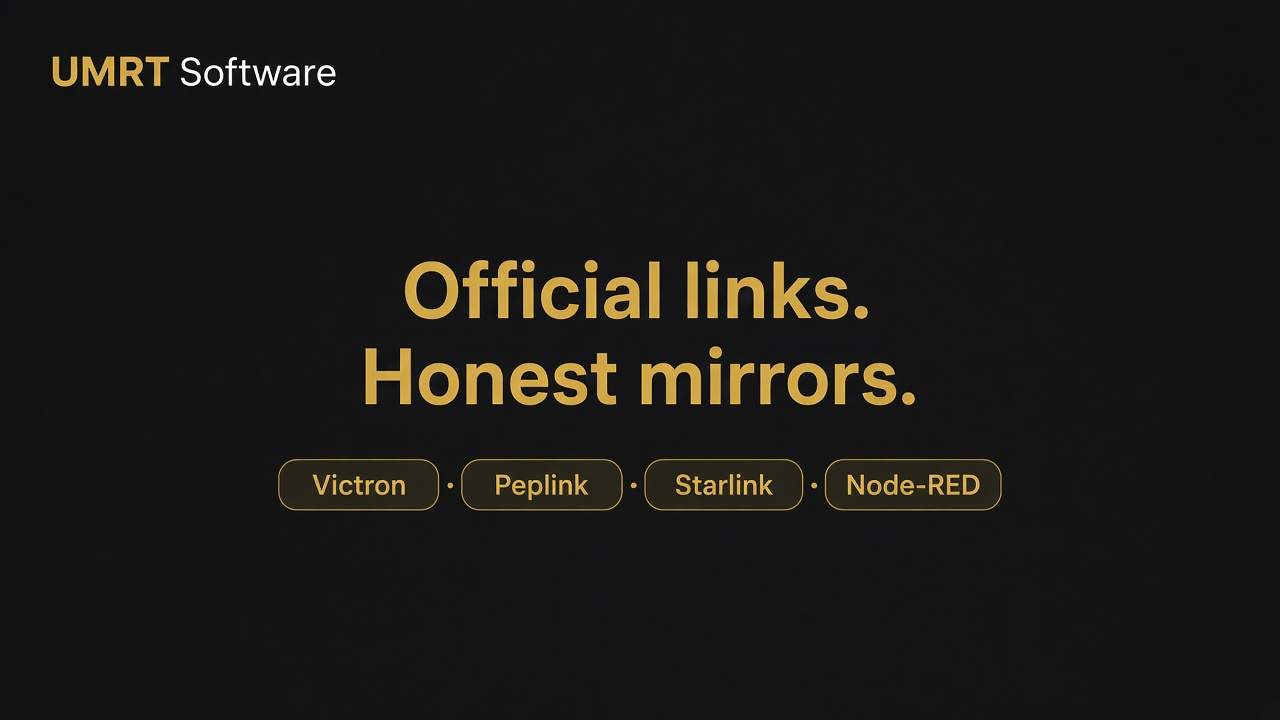
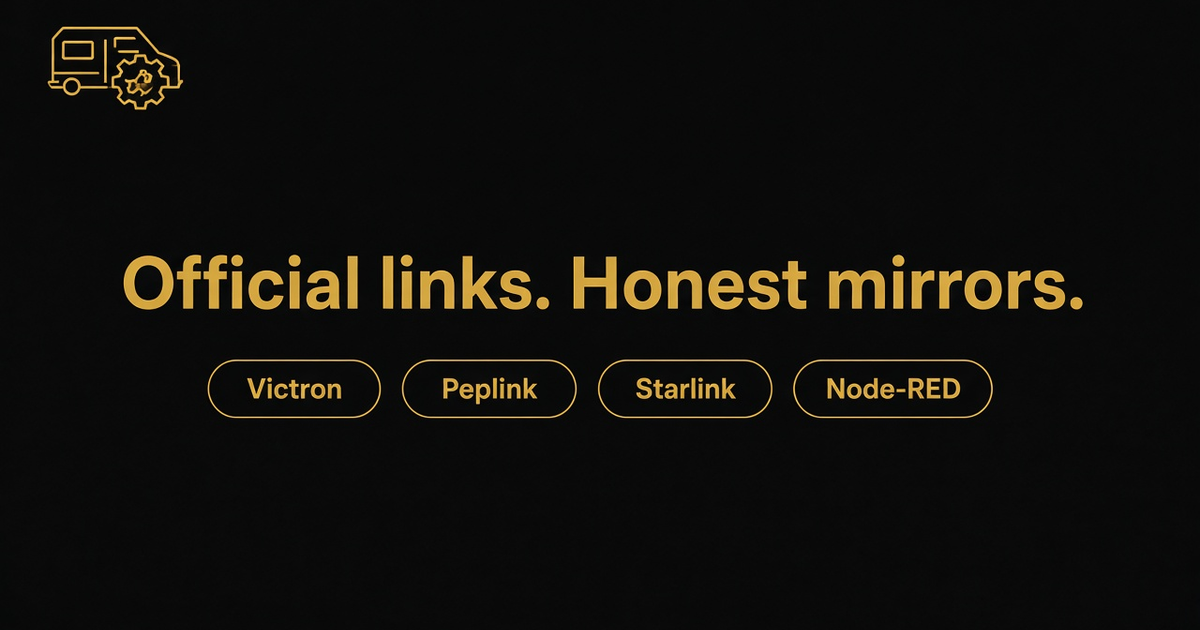
Visual: Brand OG real PNG + share chrome (viral empty-image fix)

Changed region(s): [[0.0925, 0.3619, 0.8942, 0.7238], [0.0308, 0.0302, 0.2775, 0.181]]

diff --git a/node-red/index.html b/node-red/index.html
@@ -9,11 +9,11 @@
   <meta property="og:description" content="Official Node-RED + Signal K links for RV/light-marine dashboards. Integrate/install only — no community-flow productization. Mirror-candidate after pin+SHA256. Victron Professional Certified Installer field shop." />
   <meta property="og:type" content="website" />
   <meta property="og:url" content="https://umrt-software.pages.dev/node-red/" />
-  <meta property="og:image" content="https://umrt-software.pages.dev/shared/img/og-default.png" />
+  <meta property="og:image" content="https://umrt-software.pages.dev/assets/og/umrt-software-og-card.png" />
   <meta property="og:image:width" content="1200" />
   <meta property="og:image:height" content="630" />
   <meta name="twitter:card" content="summary_large_image" />
-  <meta name="twitter:image" content="https://umrt-software.pages.dev/shared/img/og-default.png" />
+  <meta name="twitter:image" content="https://umrt-software.pages.dev/assets/og/umrt-software-og-card.png" />
   <meta name="twitter:title" content="Node-RED — Official FOSS links | UMRT Software" />
   <meta name="twitter:description" content="Official nodered.org / Signal K links. Integrate/install only; mirror-candidate after pin+SHA256." />
   <link rel="canonical" href="https://umrt-software.pages.dev/nodered/" />

diff --git a/nodered/index.html b/nodered/index.html
@@ -9,11 +9,11 @@
   <meta property="og:description" content="Official Node-RED + Signal K links for RV/light-marine dashboards. Integrate/install only — no community-flow productization. Mirror-candidate after pin+SHA256. Victron Professional Certified Installer field shop." />
   <meta property="og:type" content="website" />
   <meta property="og:url" content="https://umrt-software.pages.dev/nodered/" />
-  <meta property="og:image" content="https://umrt-software.pages.dev/shared/img/og-default.png" />
+  <meta property="og:image" content="https://umrt-software.pages.dev/assets/og/umrt-software-og-card.png" />
   <meta property="og:image:width" content="1200" />
   <meta property="og:image:height" content="630" />
   <meta name="twitter:card" content="summary_large_image" />
-  <meta name="twitter:image" content="https://umrt-software.pages.dev/shared/img/og-default.png" />
+  <meta name="twitter:image" content="https://umrt-software.pages.dev/assets/og/umrt-software-og-card.png" />
   <meta name="twitter:title" content="Node-RED — Official FOSS links | UMRT Software" />
   <meta name="twitter:description" content="Official nodered.org / Signal K links. Integrate/install only; mirror-candidate after pin+SHA256." />
   <link rel="canonical" href="https://umrt-software.pages.dev/nodered/" />

diff --git a/index.html b/index.html
@@ -11,11 +11,11 @@
   <meta property="og:description" content="Victron, Peplink, Starlink, weBoost + Node-RED — manufacturer links only. No cracked bins. Built by a Victron Professional Certified Installer who works on coaches." />
   <meta property="og:type" content="website" />
   <meta property="og:url" content="https://umrt-software.pages.dev/" />
-  <meta property="og:image" content="https://raw.githubusercontent.com/crashdummy88/umrt-software/main/og.png" />
+  <meta property="og:image" content="https://umrt-software.pages.dev/assets/og/umrt-software-og-card.png" />
   <meta property="og:image:width" content="1200" />
   <meta property="og:image:height" content="630" />
   <meta name="twitter:card" content="summary_large_image" />
-  <meta name="twitter:image" content="https://raw.githubusercontent.com/crashdummy88/umrt-software/main/og.png" />
+  <meta name="twitter:image" content="https://umrt-software.pages.dev/assets/og/umrt-software-og-card.png" />
   <meta name="twitter:title" content="UMRT Software — Official firmware &amp; FOSS links" />
   <link rel="stylesheet" href="/shared/css/umrt.css" />
 </head>

diff --git a/peplink/index.html b/peplink/index.html
@@ -9,11 +9,11 @@
   <meta property="og:description" content="Official Peplink links. Name the SpeedFusion mode. Manufacturer / store only — no proprietary binary redistribution." />
   <meta property="og:type" content="website" />
   <meta property="og:url" content="https://umrt-software.pages.dev/peplink/" />
-  <meta property="og:image" content="https://umrt-software.pages.dev/shared/og/og-default.png" />
+  <meta property="og:image" content="https://umrt-software.pages.dev/assets/og/umrt-software-og-card.png" />
   <meta property="og:image:width" content="1200" />
   <meta property="og:image:height" content="630" />
   <meta name="twitter:card" content="summary_large_image" />
-  <meta name="twitter:image" content="https://umrt-software.pages.dev/shared/og/og-default.png" />
+  <meta name="twitter:image" content="https://umrt-software.pages.dev/assets/og/umrt-software-og-card.png" />
   <link rel="canonical" href="https://umrt-software.pages.dev/peplink/" />
   <link rel="stylesheet" href="/shared/css/umrt.css" />
 </head>

diff --git a/victron/index.html b/victron/index.html
@@ -9,11 +9,11 @@
   <meta property="og:description" content="Official Victron firmware, apps, manuals, VRM, and Venus links. Manufacturer / store only." />
   <meta property="og:type" content="website" />
   <meta property="og:url" content="https://umrt-software.pages.dev/victron/" />
-  <meta property="og:image" content="https://umrt-software.pages.dev/shared/og/og-default.png" />
+  <meta property="og:image" content="https://umrt-software.pages.dev/assets/og/umrt-software-og-card.png" />
   <meta property="og:image:width" content="1200" />
   <meta property="og:image:height" content="630" />
   <meta name="twitter:card" content="summary_large_image" />
-  <meta name="twitter:image" content="https://umrt-software.pages.dev/shared/og/og-default.png" />
+  <meta name="twitter:image" content="https://umrt-software.pages.dev/assets/og/umrt-software-og-card.png" />
   <link rel="canonical" href="https://umrt-software.pages.dev/victron/" />
   <link rel="stylesheet" href="/shared/css/umrt.css" />
 </head>

diff --git a/starlink/index.html b/starlink/index.html
@@ -9,11 +9,11 @@
   <meta property="og:description" content="Official Starlink app + support. Clear-sky installs only. Manufacturer / store only." />
   <meta property="og:type" content="website" />
   <meta property="og:url" content="https://umrt-software.pages.dev/starlink/" />
-  <meta property="og:image" content="https://umrt-software.pages.dev/shared/og/og-default.png" />
+  <meta property="og:image" content="https://umrt-software.pages.dev/assets/og/umrt-software-og-card.png" />
   <meta property="og:image:width" content="1200" />
   <meta property="og:image:height" content="630" />
   <meta name="twitter:card" content="summary_large_image" />
-  <meta name="twitter:image" content="https://umrt-software.pages.dev/shared/og/og-default.png" />
+  <meta name="twitter:image" content="https://umrt-software.pages.dev/assets/og/umrt-software-og-card.png" />
   <link rel="canonical" href="https://umrt-software.pages.dev/starlink/" />
   <link rel="stylesheet" href="/shared/css/umrt.css" />
 </head>

diff --git a/weboost/index.html b/weboost/index.html
@@ -9,11 +9,11 @@
   <meta property="og:description" content="Official weBoost links. Outdoor RF required; AGC; no invent-from-zero / no tune gain." />
   <meta property="og:type" content="website" />
   <meta property="og:url" content="https://umrt-software.pages.dev/weboost/" />
-  <meta property="og:image" content="https://umrt-software.pages.dev/shared/og/og-default.png" />
+  <meta property="og:image" content="https://umrt-software.pages.dev/assets/og/umrt-software-og-card.png" />
   <meta property="og:image:width" content="1200" />
   <meta property="og:image:height" content="630" />
   <meta name="twitter:card" content="summary_large_image" />
-  <meta name="twitter:image" content="https://umrt-software.pages.dev/shared/og/og-default.png" />
+  <meta name="twitter:image" content="https://umrt-software.pages.dev/assets/og/umrt-software-og-card.png" />
   <link rel="canonical" href="https://umrt-software.pages.dev/weboost/" />
   <link rel="stylesheet" href="/shared/css/umrt.css" />
 </head>

diff --git a/shared/css/umrt.css b/shared/css/umrt.css
@@ -57,3 +57,17 @@ code { font-size: 0.9em; background: #222; padding: 0.1em 0.35em; border-radius:
   .header-inner { gap: 0.5rem; }
   nav { width: 100%; flex-wrap: wrap; }
 }
+
+
+/* VISUAL share-UX polish */
+.share-strip { display:flex; flex-wrap:wrap; align-items:center; gap:0.75rem; margin-top:1rem; }
+.share-btn { cursor:pointer; font:inherit; min-height:44px; }
+.share-status { min-height:1.2em; color:var(--gold,#C9972C); }
+.catalog-filter-label { display:block; margin-bottom:0.35rem; }
+.catalog-filter { width:min(100%,28rem); max-width:100%; background:#141414; color:#fff; border:1px solid #3a3a3a; border-radius:6px; padding:0.7rem 0.9rem; font:inherit; min-height:44px; margin-bottom:0.75rem; }
+.catalog-filter:focus { outline:2px solid #C9972C; outline-offset:2px; border-color:#C9972C; }
+.catalog-filter::placeholder { color:#777; }
+@media (max-width:720px) {
+  .share-strip { flex-direction:column; align-items:stretch; }
+  .share-btn, .catalog-filter { width:100%; }
+}
